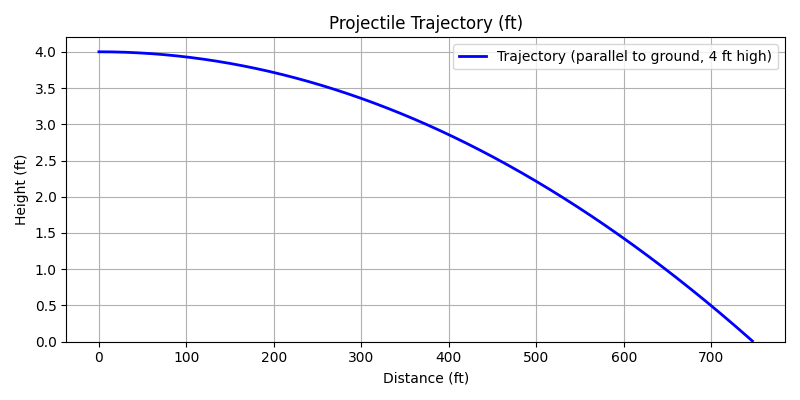
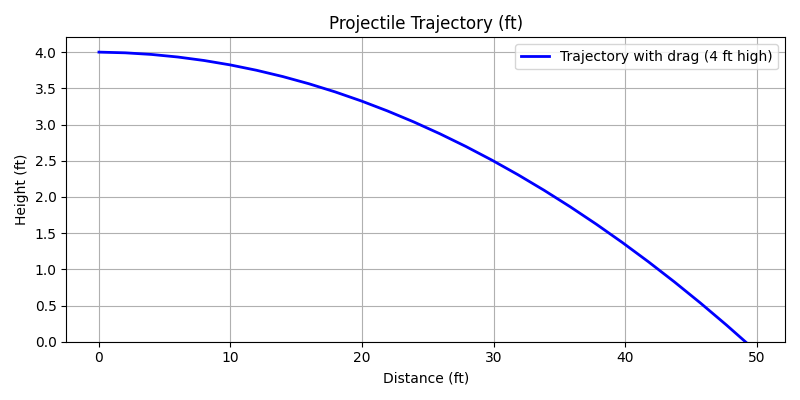
add drop down for standard calibers, add drag to equation

diff --git a/templates/form.html b/templates/form.html
@@ -5,30 +5,148 @@
     <title>Simple Ballistic Calculator</title>
   </head>
   <body>
-    <h1>Ballistic Calculator (No Drag)</h1>
+    <h1>Ballistic Calculator</h1>
 
     {% if error %}
     <p style="color: red">{{ error }}</p>
     {% endif %}
 
-    <form method="POST">
+    <form method="POST" id="ballistic-form">
+      <label>
+        Caliber:
+        <select id="caliber-select">
+          <option value="">-- Select Caliber (optional) --</option>
+          <option value=".223 Remington" data-weight="55" data-diameter="0.224">
+            .223 Remington
+          </option>
+          <option
+            value=".308 Winchester"
+            data-weight="150"
+            data-diameter="0.308"
+          >
+            .308 Winchester
+          </option>
+          <option
+            value=".30-06 Springfield"
+            data-weight="150"
+            data-diameter="0.308"
+          >
+            .30-06 Springfield
+          </option>
+          <option
+            value=".300 Winchester Magnum"
+            data-weight="180"
+            data-diameter="0.308"
+          >
+            .300 Winchester Magnum
+          </option>
+          <option
+            value=".270 Winchester"
+            data-weight="130"
+            data-diameter="0.277"
+          >
+            .270 Winchester
+          </option>
+          <option
+            value=".243 Winchester"
+            data-weight="100"
+            data-diameter="0.243"
+          >
+            .243 Winchester
+          </option>
+          <option value=".22 LR" data-weight="40" data-diameter="0.223">
+            .22 LR
+          </option>
+          <option value="6.5 Creedmoor" data-weight="140" data-diameter="0.264">
+            6.5 Creedmoor
+          </option>
+          <option
+            value=".338 Lapua Magnum"
+            data-weight="250"
+            data-diameter="0.338"
+          >
+            .338 Lapua Magnum
+          </option>
+          <option
+            value=".300 AAC Blackout"
+            data-weight="125"
+            data-diameter="0.308"
+          >
+            .300 AAC Blackout
+          </option>
+          <option value=".357 Magnum" data-weight="158" data-diameter="0.357">
+            .357 Magnum
+          </option>
+          <option value=".45 ACP" data-weight="230" data-diameter="0.451">
+            .45 ACP
+          </option>
+          <option
+            value="7mm Remington Magnum"
+            data-weight="162"
+            data-diameter="0.284"
+          >
+            7mm Remington Magnum
+          </option>
+        </select>
+      </label>
+      <br />
+
       <label>
         Muzzle velocity (ft/s):
         <input type="number" step="any" name="v0" required />
       </label>
       <br />
 
-      <!-- Angle input removed: always parallel to ground (0 degrees) -->
-
-      <!-- Target distance removed: always plot for 100, 500, 1000 yards -->
+      <label>
+        Bullet weight (grains):
+        <input
+          type="number"
+          step="any"
+          name="weight"
+          id="weight-input"
+          required
+        />
+      </label>
       <br />
 
+      <label>
+        Bullet diameter (in):
+        <input
+          type="number"
+          step="any"
+          name="diameter"
+          id="diameter-input"
+          required
+        />
+      </label>
+      <br />
+      <br />
       <button type="submit">Calculate</button>
     </form>
+
+    <script>
+      // Auto-fill bullet weight and diameter when caliber is selected
+      document
+        .getElementById("caliber-select")
+        .addEventListener("change", function () {
+          var selected = this.options[this.selectedIndex];
+          var weight = selected.getAttribute("data-weight");
+          var diameter = selected.getAttribute("data-diameter");
+          if (weight) document.getElementById("weight-input").value = weight;
+          if (diameter)
+            document.getElementById("diameter-input").value = diameter;
+        });
+    </script>
 
     {% if result %}
     <h2>Result</h2>
     <p>Trajectory for a bullet fired parallel to the ground (0° angle):</p>
+    <p>Bullet weight: {{ result.weight }} grains</p>
+    <p>Bullet diameter: {{ result.diameter }} in</p>
+    <p>
+      Kinetic energy at muzzle: {{ '%.1f'|format(result.kinetic_energy) }}
+      ft-lbf
+    </p>
     {% if plot_url %}
     <h3>Trajectory Arc</h3>
     <img

diff --git a/app.py b/app.py
@@ -1,5 +1,5 @@
 from flask import Flask, render_template, request
-from physics import drop_at_distance, trajectory_no_drag
+from physics import drop_at_distance, trajectory_no_drag, trajectory_with_drag
 import matplotlib
 matplotlib.use('Agg')  # Use non-GUI backend for server
 import matplotlib.pyplot as plt
@@ -7,9 +7,9 @@ import os
 
 app = Flask(__name__)
 
-def plot_trajectory(v0, filename):
-    # Always plot for angle = 0 (parallel to ground), starting 4 ft above ground
-    points = trajectory_no_drag(v0, 0.0, step=1, initial_height=4.0)
+def plot_trajectory(v0, weight, diameter, filename):
+    # Always plot for angle = 0 (parallel to ground), starting 4 ft above ground, with drag
+    points = trajectory_with_drag(v0, weight_grains=weight, step=1.0, initial_height=4.0, diameter_in=diameter)
     if not points or len(points) < 2:
         plt.figure(figsize=(8, 4))
         plt.text(0.5, 0.5, 'Trajectory too short to plot', ha='center', va='center')
@@ -19,7 +19,7 @@ def plot_trajectory(v0, filename):
         return
     xs, ys = zip(*points)
     plt.figure(figsize=(8, 4))
-    plt.plot(xs, ys, label="Trajectory (parallel to ground, 4 ft high)", color='blue', linewidth=2)
+    plt.plot(xs, ys, label="Trajectory with drag (4 ft high)", color='blue', linewidth=2)
     plt.xlabel("Distance (ft)")
     plt.ylabel("Height (ft)")
     plt.title("Projectile Trajectory (ft)")
@@ -40,15 +40,26 @@ def index():
     if request.method == "POST":
         try:
             v0 = float(request.form["v0"])
+            weight = float(request.form["weight"])
+            diameter = float(request.form["diameter"])
 
             static_dir = os.path.join(app.root_path, 'static')
             os.makedirs(static_dir, exist_ok=True)
             plot_path = os.path.join(static_dir, 'trajectory.png')
-            plot_trajectory(v0, plot_path)
+            plot_trajectory(v0, weight, diameter, plot_path)
             plot_url = '/static/trajectory.png'
+
+            # Calculate kinetic energy in ft-lbf
+            # 1 pound = 7000 grains, 1 slug = 32.174 pounds
+            weight_lb = weight / 7000.0
+            mass_slugs = weight_lb / 32.174
+            kinetic_energy = 0.5 * mass_slugs * v0 ** 2  # ft-lbf
 
             result = {
                 "v0": v0,
+                "weight": weight,
+                "diameter": diameter,
+                "kinetic_energy": kinetic_energy,
             }
         except (KeyError, ValueError):
             error = "Please enter valid numeric values."

diff --git a/physics.py b/physics.py
@@ -1,16 +1,55 @@
+def trajectory_with_drag(v0: float, weight_grains: float, step: float = 1.0, initial_height: float = 4.0, Cd: float = 0.3, diameter_in: float = 0.308):
+    """
+    Compute (x, y) points for a projectile with drag, in feet.
+    v0: muzzle velocity (ft/s)
+    weight_grains: bullet weight in grains
+    step: distance step in feet
+    initial_height: height above ground in feet
+    Cd: drag coefficient (default 0.3)
+    diameter_in: bullet diameter in inches (default .308)
+    """
+    import math
+    # Constants
+    rho = 0.0023769  # air density (slugs/ft^3)
+    g = G
+    # Convert bullet weight to slugs
+    weight_lb = weight_grains / 7000.0
+    mass_slugs = weight_lb / 32.174
+    # Cross-sectional area (ft^2)
+    diameter_ft = diameter_in / 12.0
+    area = math.pi * (diameter_ft / 2) ** 2
+
+    # Initial conditions
+    x, y = 0.0, initial_height
+    vx, vy = v0, 0.0
+    points = [(x, y)]
+    dt = 0.01  # time step (s)
+    while y >= 0:
+        v = math.sqrt(vx ** 2 + vy ** 2)
+        Fd = 0.5 * Cd * rho * area * v ** 2
+        ax = -Fd * vx / (v * mass_slugs) if v != 0 else 0
+        ay = -g - (Fd * vy / (v * mass_slugs) if v != 0 else 0)
+        vx += ax * dt
+        vy += ay * dt
+        x += vx * dt
+        y += vy * dt
+        if len(points) == 0 or abs(x - points[-1][0]) >= step:
+            points.append((x, y))
+    return points
 
 import math
 
 # Gravity in ft/s^2
 G = 32.174  # ft/s^2
 
-def trajectory_no_drag(v0: float, angle_deg: float, step: float = 10.0, initial_height: float = 3.0):
+def trajectory_no_drag(v0: float, angle_deg: float, step: float = 10.0, initial_height: float = 3.0, weight_grains: float = 150.0):
     """
     Compute (x, y) points for a projectile (flat Earth, no drag), in feet.
     v0: muzzle velocity (ft/s)
     angle_deg: launch angle in degrees
     step: distance step in feet
     initial_height: height above ground in feet
+    weight_grains: bullet weight in grains (currently unused)
     """
     angle_rad = math.radians(angle_deg)
     v0x = v0 * math.cos(angle_rad)

diff --git a/bullet_data.py b/bullet_data.py
@@ -1,0 +1,18 @@
+# Standard bullet data for common calibers
+# Format: caliber, weight_grains, diameter_in, drag_coefficient (Cd)
+
+BULLET_DATA = [
+    {"caliber": ".223 Remington", "weight_grains": 55, "diameter_in": 0.224, "Cd": 0.27},
+    {"caliber": ".308 Winchester", "weight_grains": 150, "diameter_in": 0.308, "Cd": 0.30},
+    {"caliber": ".30-06 Springfield", "weight_grains": 150, "diameter_in": 0.308, "Cd": 0.29},
+    {"caliber": ".300 Winchester Magnum", "weight_grains": 180, "diameter_in": 0.308, "Cd": 0.32},
+    {"caliber": ".270 Winchester", "weight_grains": 130, "diameter_in": 0.277, "Cd": 0.28},
+    {"caliber": ".243 Winchester", "weight_grains": 100, "diameter_in": 0.243, "Cd": 0.26},
+    {"caliber": ".22 LR", "weight_grains": 40, "diameter_in": 0.223, "Cd": 0.20},
+    {"caliber": "6.5 Creedmoor", "weight_grains": 140, "diameter_in": 0.264, "Cd": 0.29},
+    {"caliber": ".338 Lapua Magnum", "weight_grains": 250, "diameter_in": 0.338, "Cd": 0.35},
+    {"caliber": ".300 AAC Blackout", "weight_grains": 125, "diameter_in": 0.308, "Cd": 0.30},
+    {"caliber": ".357 Magnum", "weight_grains": 158, "diameter_in": 0.357, "Cd": 0.19},
+    {"caliber": ".45 ACP", "weight_grains": 230, "diameter_in": 0.451, "Cd": 0.19},
+    {"caliber": "7mm Remington Magnum", "weight_grains": 162, "diameter_in": 0.284, "Cd": 0.32},
+]
